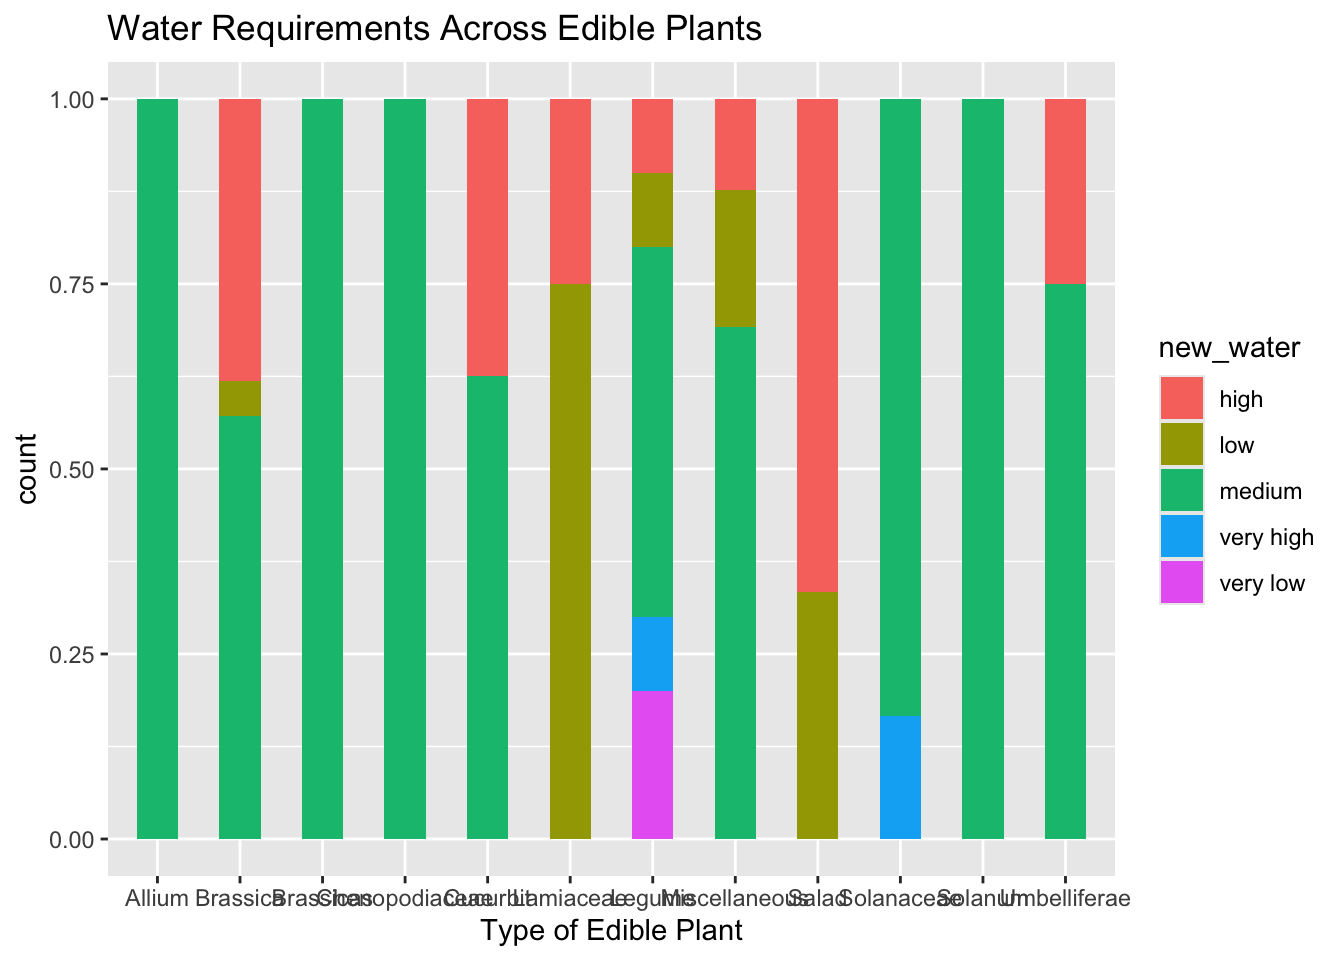
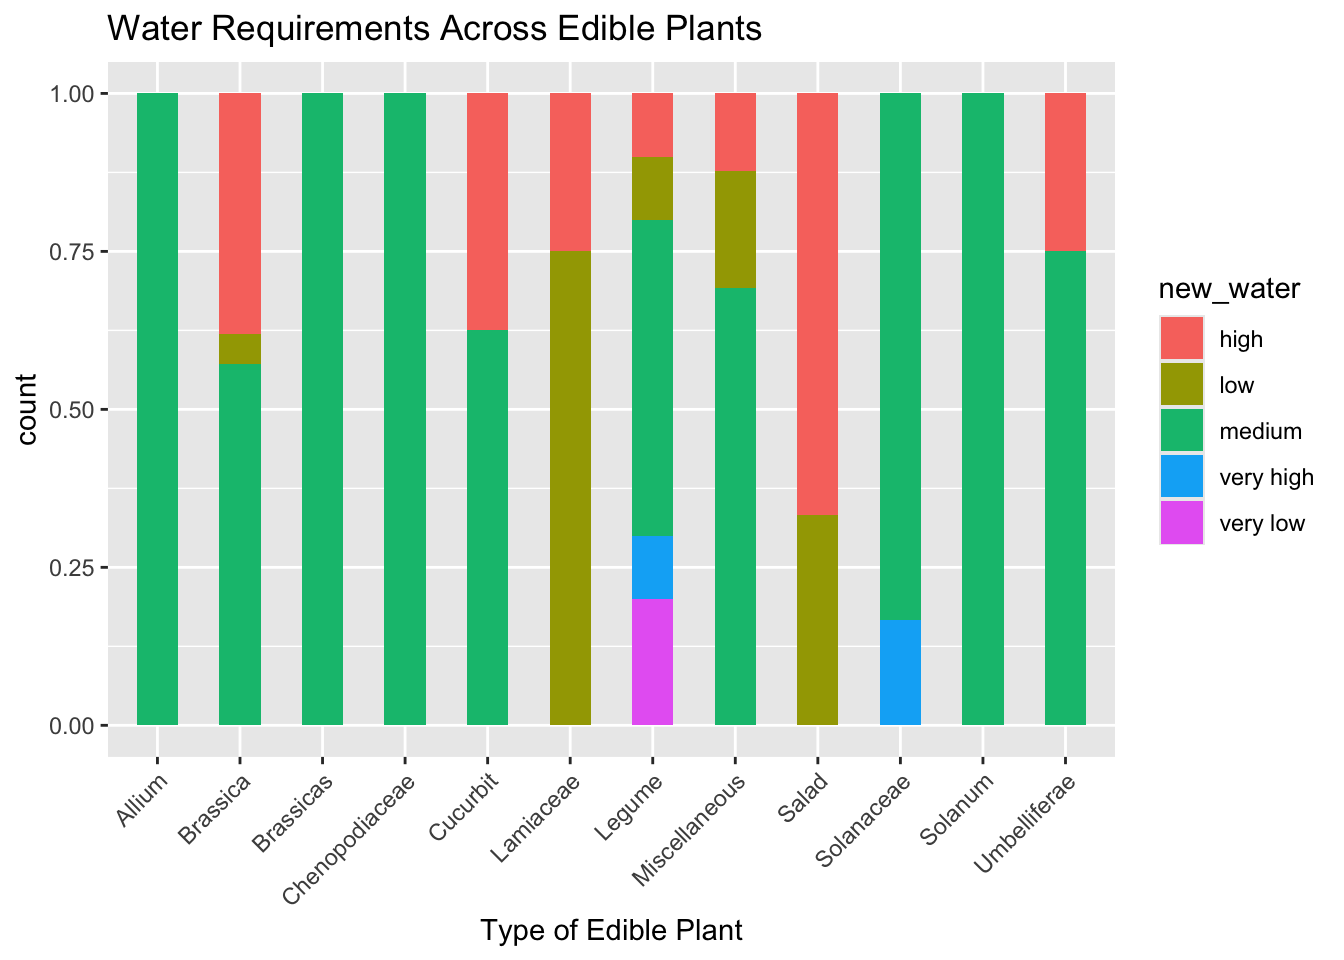
added a few edits to edible plants

diff --git a/docs/edibleplants.html b/docs/edibleplants.html
@@ -385,11 +385,13 @@ pre > code.sourceCode > span > a:first-child::before { text-decoration: underlin
 <div class="code-copy-outer-scaffold"><div class="sourceCode cell-code" id="cb1"><pre class="sourceCode r code-with-copy"><code class="sourceCode r"><span id="cb1-1"><a href="#cb1-1" aria-hidden="true" tabindex="-1"></a>edible_plants <span class="ot">&lt;-</span> readr<span class="sc">::</span><span class="fu">read_csv</span>(<span class="st">'https://raw.githubusercontent.com/rfordatascience/tidytuesday/main/data/2026/2026-02-03/edible_plants.csv'</span>)</span></code></pre></div><button title="Copy to Clipboard" class="code-copy-button"><i class="bi"></i></button></div>
 </details>
 </div>
-<p>About the data:</p>
+<p><strong>About the data:</strong></p>
 <p>The data for this analysis come from the <a href="https://github.com/rfordatascience/tidytuesday/tree/main/data/2026/2026-02-03">TidyTuesday Edible Plants dataset</a>.</p>
-<p>About the dataset:</p>
+<p><strong>About the dataset:</strong></p>
 <p>The dataset comes from the Edible Plant Database (EPD). The EPD is an outcome of the GROW Observatory, a European Citizen Science project focused on growing food, monitoring land, and sensing soil moisture. This database contains information on 146 edible plant species, from each plant’s idea growing conditions to their time to harvest and germination.</p>
-<p>Citation: Edible Plant Database. (n.d.). Edible Plant Database. https://edibleplantdb.org/</p>
+<p><strong>Citation:</strong></p>
+<p>Edible Plant Database. (n.d.). Edible Plant Database. https://edibleplantdb.org/</p>
+<p><strong>Tidy Analysis:</strong></p>
 <div class="cell">
 <details class="code-fold">
 <summary>Show the code</summary>
@@ -401,10 +403,11 @@ pre > code.sourceCode > span > a:first-child::before { text-decoration: underlin
 <span id="cb2-6"><a href="#cb2-6" aria-hidden="true" tabindex="-1"></a></span>
 <span id="cb2-7"><a href="#cb2-7" aria-hidden="true" tabindex="-1"></a><span class="fu">ggplot</span>(edible_plants2, <span class="fu">aes</span>(<span class="at">x =</span> cultivation)) <span class="sc">+</span> </span>
 <span id="cb2-8"><a href="#cb2-8" aria-hidden="true" tabindex="-1"></a>  <span class="fu">geom_bar</span>(<span class="at">position =</span> <span class="st">"fill"</span>, <span class="fu">aes</span>(<span class="at">fill =</span> new_water), <span class="at">width =</span> <span class="fl">0.5</span>) <span class="sc">+</span> </span>
-<span id="cb2-9"><a href="#cb2-9" aria-hidden="true" tabindex="-1"></a>  <span class="fu">labs</span>(</span>
-<span id="cb2-10"><a href="#cb2-10" aria-hidden="true" tabindex="-1"></a>    <span class="at">title =</span> <span class="st">"Water Requirements Across Edible Plants"</span>,</span>
-<span id="cb2-11"><a href="#cb2-11" aria-hidden="true" tabindex="-1"></a>    <span class="at">x =</span> <span class="st">"Type of Edible Plant"</span></span>
-<span id="cb2-12"><a href="#cb2-12" aria-hidden="true" tabindex="-1"></a>  )</span></code></pre></div><button title="Copy to Clipboard" class="code-copy-button"><i class="bi"></i></button></div>
+<span id="cb2-9"><a href="#cb2-9" aria-hidden="true" tabindex="-1"></a>  <span class="fu">theme</span>(<span class="at">axis.text.x =</span> <span class="fu">element_text</span>(<span class="at">angle =</span> <span class="dv">45</span>, <span class="at">hjust =</span> <span class="dv">1</span>)) <span class="sc">+</span></span>
+<span id="cb2-10"><a href="#cb2-10" aria-hidden="true" tabindex="-1"></a>  <span class="fu">labs</span>(</span>
+<span id="cb2-11"><a href="#cb2-11" aria-hidden="true" tabindex="-1"></a>    <span class="at">title =</span> <span class="st">"Water Requirements Across Edible Plants"</span>,</span>
+<span id="cb2-12"><a href="#cb2-12" aria-hidden="true" tabindex="-1"></a>    <span class="at">x =</span> <span class="st">"Type of Edible Plant"</span></span>
+<span id="cb2-13"><a href="#cb2-13" aria-hidden="true" tabindex="-1"></a>  )</span></code></pre></div><button title="Copy to Clipboard" class="code-copy-button"><i class="bi"></i></button></div>
 </details>
 <div class="cell-output-display">
 <div>
